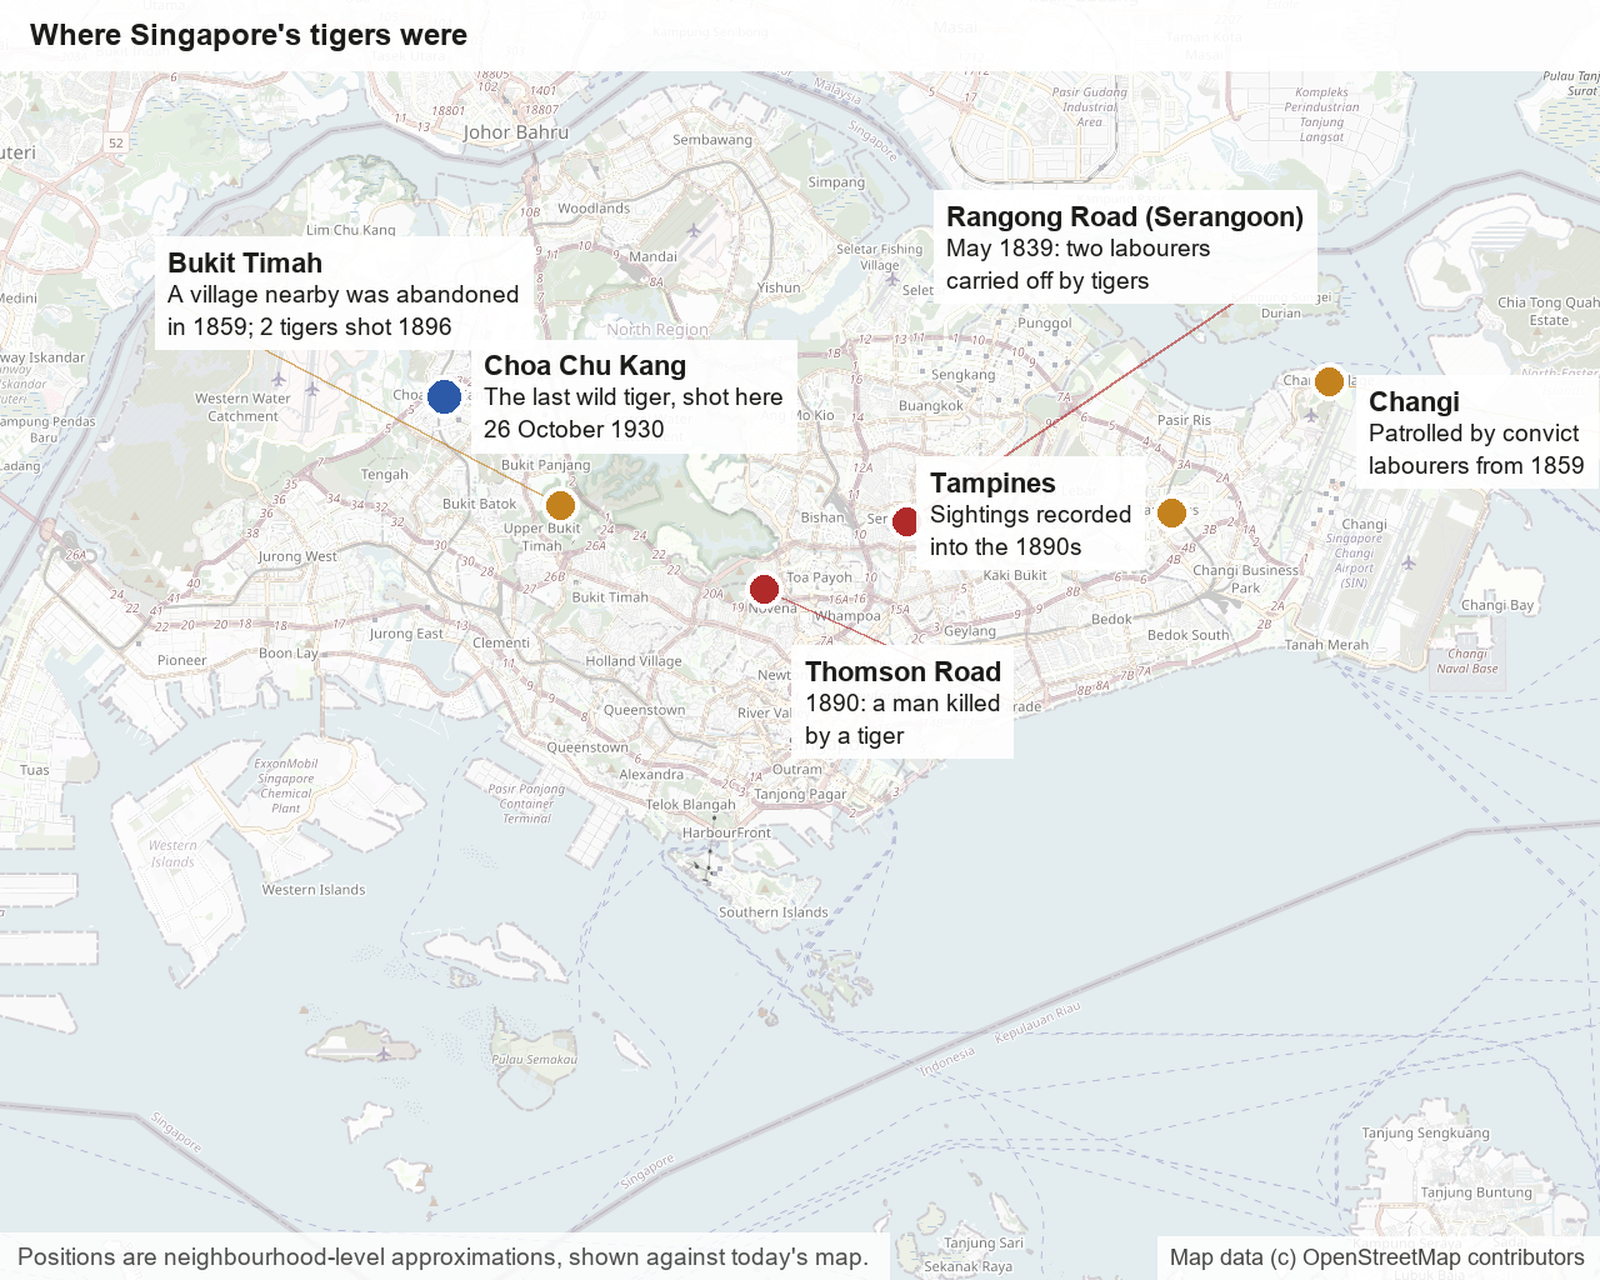
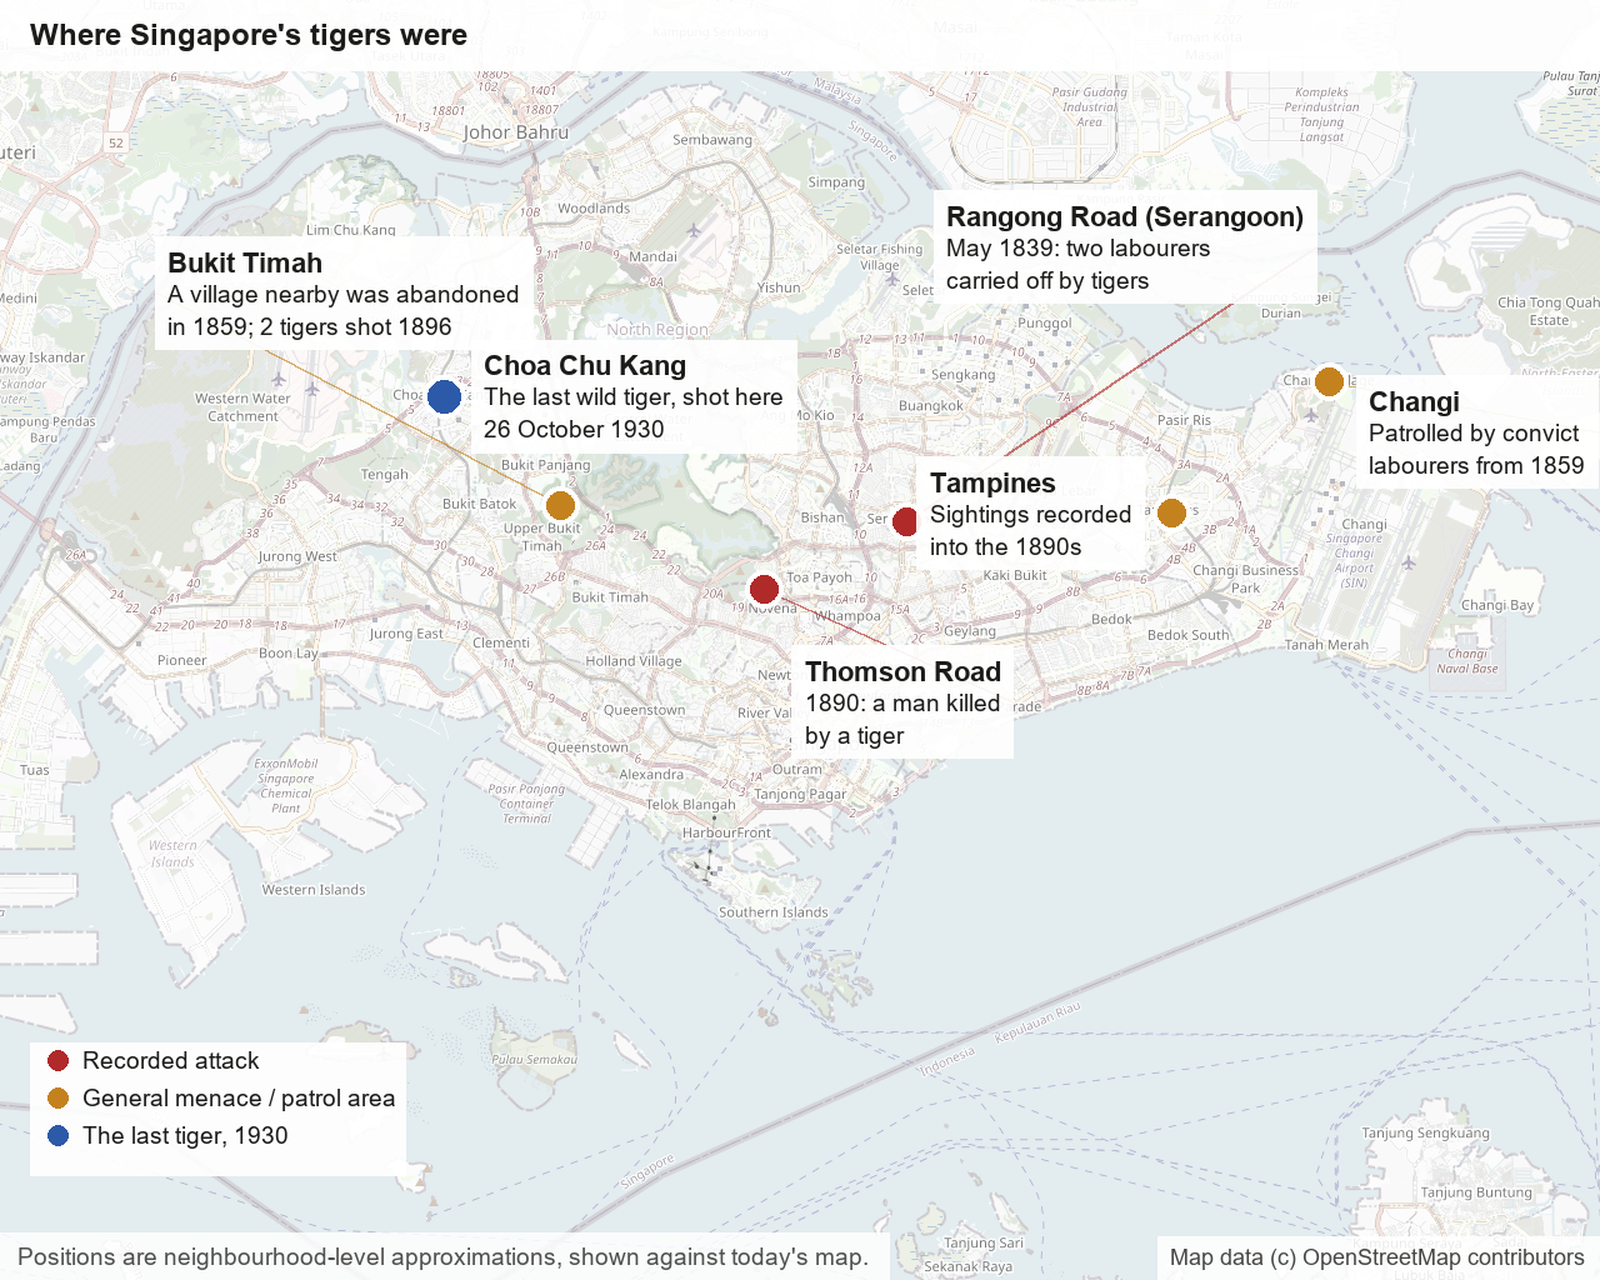
Add a pin-color legend to the wild-tigers map
Claude-Session: https://claude.ai/code/session_014vyi5DydGd12SnQWie299V

Changed region(s): [[0.0, 0.8125, 0.2812, 0.9375]]

diff --git a/scripts/render_when_singapore_had_wild_tigers_map.py b/scripts/render_when_singapore_had_wild_tigers_map.py
@@ -138,6 +138,21 @@ def main():
     draw.rectangle([0, H - (fb[3] - fb[1]) - 20, (fb[2] - fb[0]) + 30, H], fill=(255, 255, 255, 210))
     draw.text((14, H - (fb[3] - fb[1]) - 12), FOOT, font=sub_font, fill=(80, 80, 78, 255))
 
+    legend_font = load_font(19)
+    legend = [
+        ("Recorded attack", ATTACK_C),
+        ("General menace / patrol area", AREA_C),
+        ("The last tiger, 1930", LAST_C),
+    ]
+    lx, ly = 24, H - 190
+    lw = 300
+    lh = 30 * len(legend) + 16
+    draw.rectangle([lx, ly, lx + lw, ly + lh], fill=(255, 255, 255, 234))
+    for i, (lab, col) in enumerate(legend):
+        ry = ly + 14 + i * 30
+        draw.ellipse([lx + 14, ry - 8, lx + 30, ry + 8], fill=col)
+        draw.text((lx + 42, ry - 11), lab, font=legend_font, fill=(28, 28, 26, 255))
+
     txt = "Map data (c) OpenStreetMap contributors"
     tb = draw.textbbox((0, 0), txt, font=cred_font)
     cw, ch = tb[2] - tb[0], tb[3] - tb[1]
